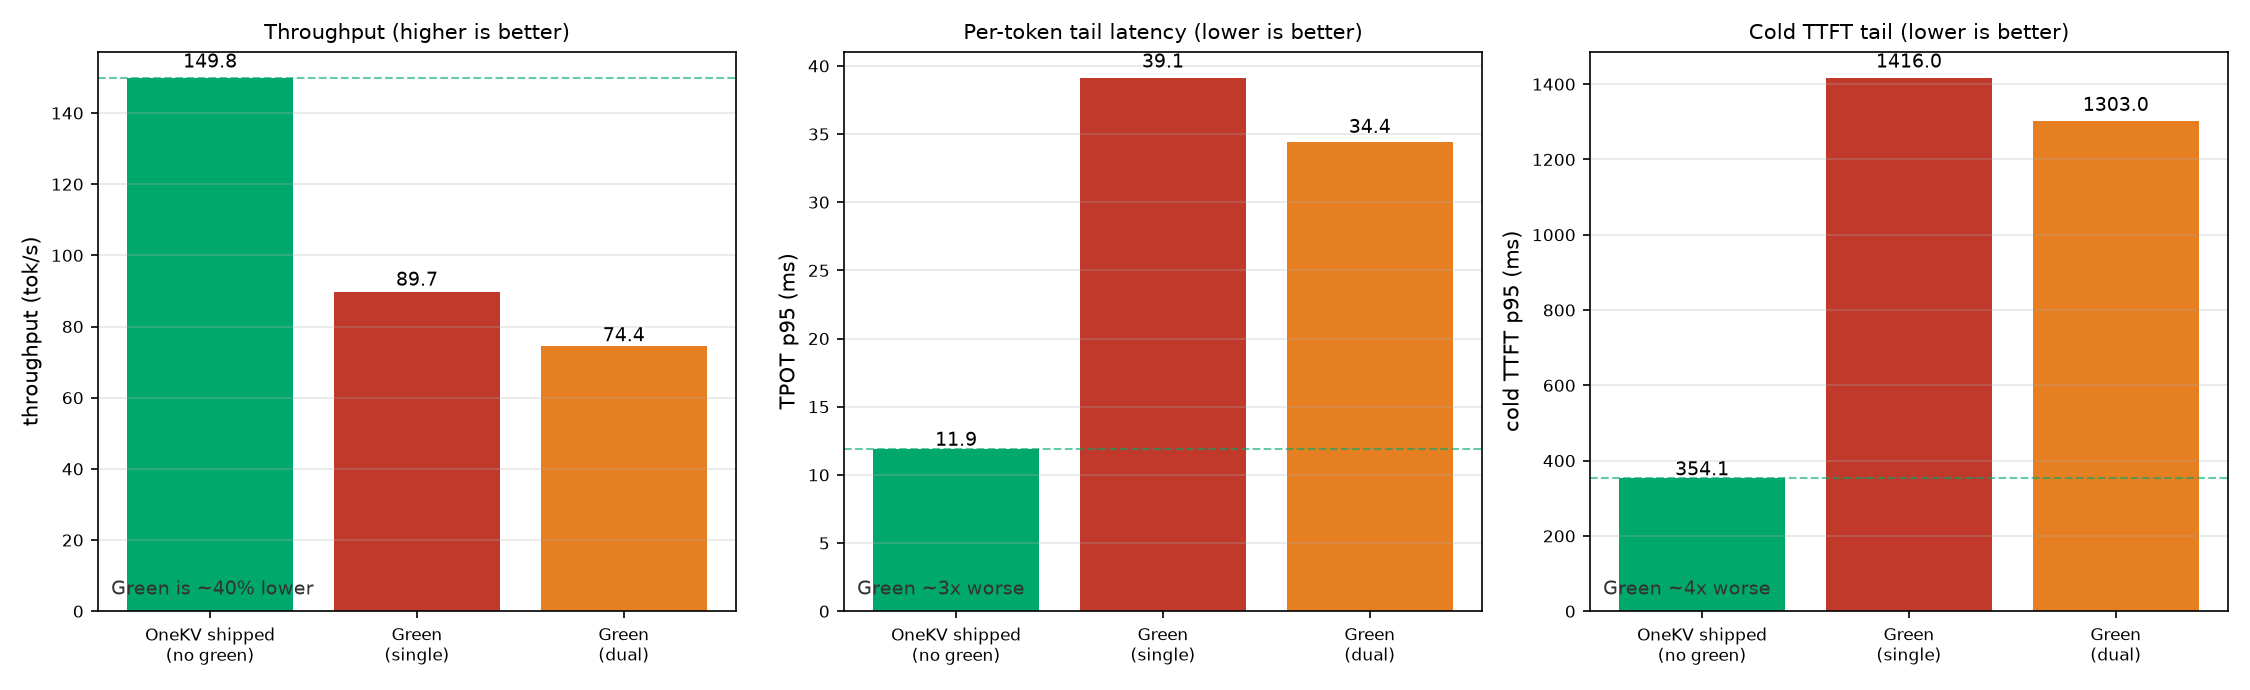
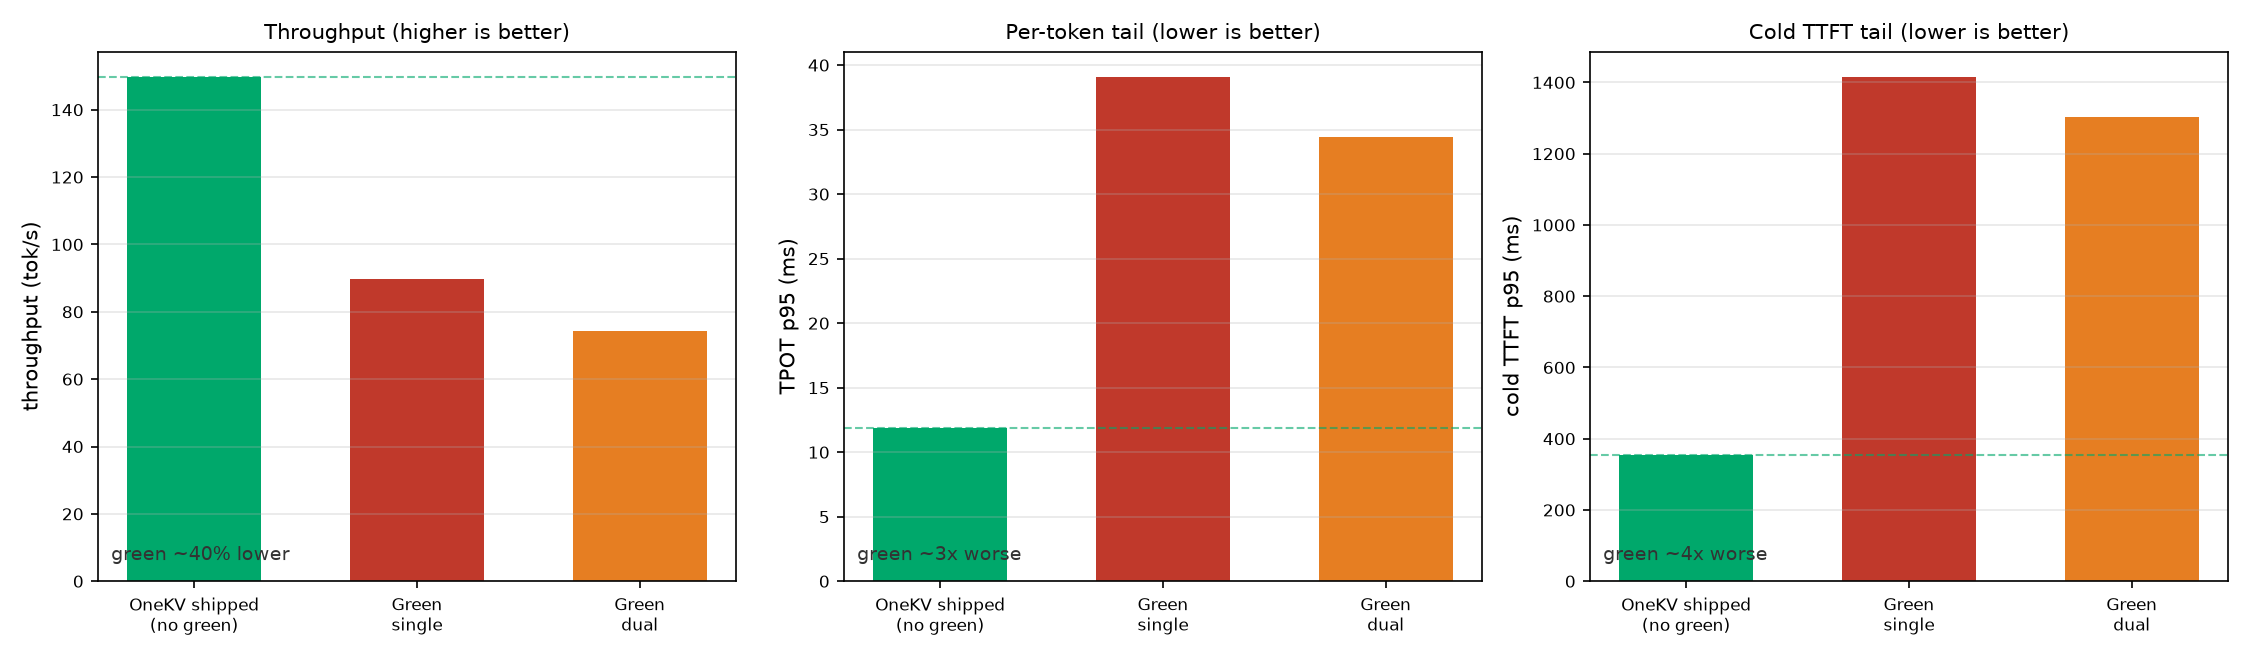
docs(README): add clean 3B green-context-vs-OneKV bar figure (no value-on-bar text) in the limitation section

diff --git a/README.md b/README.md
@@ -206,8 +206,12 @@ python scripts/plot_context_windows.py  # context-window 敏感度
 
 1. **绝对数值不可跨硬件比较** —— RTX 3090（82 SM）。我们始终与*自己的*、同 GPU、同 trace 的基线比较。
 2. **未实现论文的 10 槽 green-context pool + TPOT 驱动的重绑定**。我们用**连续批处理**来达到
-   "decode 保护"这一收益，实测在 3090 上做 SM 预留反而更差（见
-   [`docs/design/paper-alignment.md`](docs/design/paper-alignment.md)）。
+   "decode 保护"这一收益，实测在 3090 上做 SM 预留反而更差：
+
+   ![green-context vs OneKV](figures/green-context-vs-onekv.png)
+
+   （green-context 的 SM 分区是净负：吞吐约 −40%，TPOT p95 约 3×、冷 TTFT p95 约 4× 恶化。详见
+   [`docs/design/paper-alignment.md`](docs/design/paper-alignment.md)。）
 3. **BASE 模型，无原生 tool-calling** → 衡量的是 serving 性能，不是智能体质量。
 4. **跨模型**：3B 和 7B 都用同一套方法学做基准；见上表。
 
